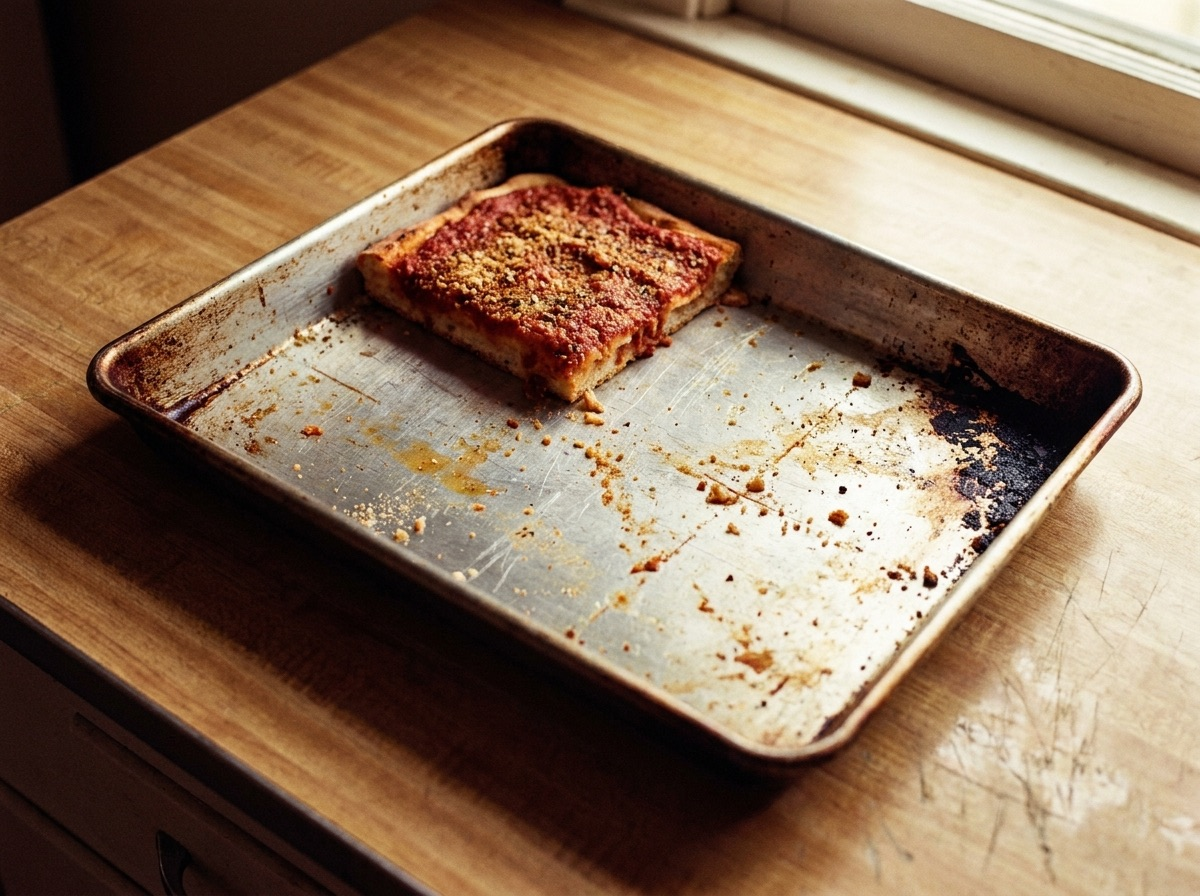
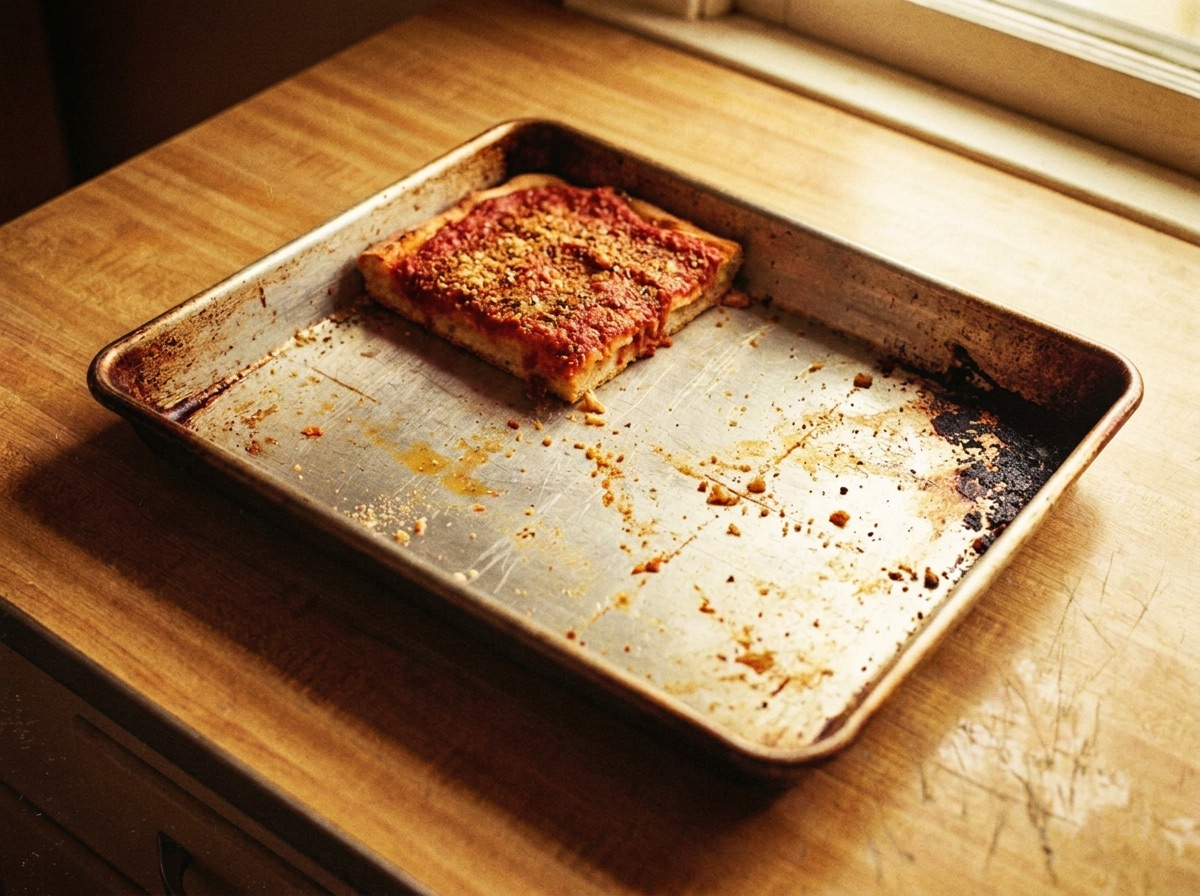
The photos age fifty years, and the recipes take the front of the zine
Reshot all three slots as 1970s Instamatic-style prints: heavy grain,
faded warm cast, soft focus, corner vignettes, a light leak on the
sauce pot. The sauce shot came back with a baked-in print border
(cropped off by pixel-measuring the cream margin, now 1058x754); the
sfincione went through image-to-image against the first shot so the
story survived the restyle — same one square left, same crumbs, same
burnt corner, just fifty years older. 10 credits this pass, 16 total.

The index flips: NONNA'S RECIPES now sits above DEV NOTES, and the
cover pitch reads in the same order.

Verified live: wing order top-to-bottom measured, sauce image loads at
its new natural size, page height unchanged, no horizontal overflow.

diff --git a/public/blog/index.html b/public/blog/index.html
@@ -29,9 +29,72 @@
 
   <div class="cover">
     <h1 class="cover__title">THE ZINE</h1>
-    <p class="cover__pitch">Two wings. Ten traps we walked into building an arcade card game &mdash; and the recipe cards the regulars kept in the drawer under the register.</p>
+    <p class="cover__pitch">Two wings. The recipe cards the regulars kept in the drawer under the register &mdash; and ten traps we walked into building an arcade card game.</p>
     <p class="cover__meta">Taped to the parlour counter. Free. Take one.</p>
   </div>
+
+  <section class="wing wing--recipes" aria-labelledby="wing-recipes">
+    <div class="wing__head">
+      <h2 class="wing__title" id="wing-recipes">NONNA&rsquo;S RECIPES</h2>
+      <p class="wing__note">Three cards, three stories, 1970s.</p>
+    </div>
+
+  <ul class="cards">
+
+    <li>
+      <a class="card" href="nonna-sunday-sauce.html">
+        <span class="card__no">Card 01 &middot; Nonna Pina</span>
+        <svg class="card__teaser" viewBox="0 0 200 56" role="img" aria-label="A two-handled pot half full of sauce, with three bubbles rising above it.">
+          <title>A pot of sauce with three bubbles over it</title>
+          <rect x="0" y="0" width="200" height="56" fill="#080a12"/>
+          <g fill="#ff4d9d"><rect x="84" y="10" width="5" height="5"/><rect x="98" y="4" width="5" height="5"/><rect x="112" y="12" width="5" height="5"/></g>
+          <g fill="#2a3355"><rect x="60" y="30" width="6" height="10"/><rect x="134" y="30" width="6" height="10"/><rect x="66" y="22" width="68" height="5"/></g>
+          <rect x="72" y="27" width="56" height="24" fill="none" stroke="#2a3355" stroke-width="3"/>
+          <rect x="76" y="31" width="48" height="8" fill="#ff2e6b"/>
+        </svg>
+        <h2 class="card__title">Sunday sauce</h2>
+        <p class="card__hook">On at seven, down at four, and nobody touches the knob.</p>
+      </a>
+    </li>
+
+    <li>
+      <a class="card" href="paulie-friday-dough.html">
+        <span class="card__no">Card 02 &middot; Big Paulie</span>
+        <svg class="card__teaser" viewBox="0 0 200 56" role="img" aria-label="A flat lump of dough in a bowl on the left, an arrow, and the same dough risen tall on the right above its dashed original outline.">
+          <title>Flat dough, then risen dough over its own dashed outline</title>
+          <rect x="0" y="0" width="200" height="56" fill="#080a12"/>
+          <g fill="#2a3355"><rect x="10" y="44" width="70" height="6"/><rect x="120" y="44" width="70" height="6"/></g>
+          <rect x="26" y="36" width="38" height="8" fill="#ffe14d"/>
+          <path d="M88 40 L112 40 M104 36 L112 40 L104 44" stroke="#3ddc7f" stroke-width="3" fill="none"/>
+          <rect x="136" y="36" width="38" height="8" fill="none" stroke="#2a3355" stroke-width="2" stroke-dasharray="4 3"/>
+          <rect x="136" y="18" width="38" height="26" fill="#ffe14d"/>
+        </svg>
+        <h2 class="card__title">The Friday dough</h2>
+        <p class="card__hook">Everything good on a Friday was made on a Thursday.</p>
+      </a>
+    </li>
+
+    <li>
+      <a class="card" href="vito-sfincione.html">
+        <span class="card__no">Card 03 &middot; Vito</span>
+        <svg class="card__teaser" viewBox="0 0 200 56" role="img" aria-label="A baking tray cut into nine squares. Eight are faded away and the ninth, in the bottom corner, is still there.">
+          <title>Nine squares on a tray, eight gone and one left</title>
+          <rect x="0" y="0" width="200" height="56" fill="#080a12"/>
+          <rect x="58" y="4" width="84" height="48" fill="none" stroke="#2a3355" stroke-width="3"/>
+          <g fill="#ff2e6b" opacity=".22">
+            <rect x="62" y="8" width="22" height="12"/><rect x="89" y="8" width="22" height="12"/><rect x="116" y="8" width="22" height="12"/>
+            <rect x="62" y="22" width="22" height="12"/><rect x="89" y="22" width="22" height="12"/><rect x="116" y="22" width="22" height="12"/>
+            <rect x="62" y="36" width="22" height="12"/><rect x="89" y="36" width="22" height="12"/>
+          </g>
+          <rect x="116" y="36" width="22" height="12" fill="#ff2e6b" stroke="#ffe14d" stroke-width="2"/>
+        </svg>
+        <h2 class="card__title">Sfincione, nine squares</h2>
+        <p class="card__hook">He cuts nine and he sells eight. The ninth is behind the register.</p>
+      </a>
+    </li>
+
+  </ul>
+  </section>
 
   <section class="wing" aria-labelledby="wing-notes">
     <div class="wing__head">
@@ -196,69 +259,6 @@
         </svg>
         <h2 class="card__title">The last one in the line</h2>
         <p class="card__hook">Everybody slid to their new seat. The last chef teleported.</p>
-      </a>
-    </li>
-
-  </ul>
-  </section>
-
-  <section class="wing wing--recipes" aria-labelledby="wing-recipes">
-    <div class="wing__head">
-      <h2 class="wing__title" id="wing-recipes">NONNA&rsquo;S RECIPES</h2>
-      <p class="wing__note">Three cards, three stories, 1970s.</p>
-    </div>
-
-  <ul class="cards">
-
-    <li>
-      <a class="card" href="nonna-sunday-sauce.html">
-        <span class="card__no">Card 01 &middot; Nonna Pina</span>
-        <svg class="card__teaser" viewBox="0 0 200 56" role="img" aria-label="A two-handled pot half full of sauce, with three bubbles rising above it.">
-          <title>A pot of sauce with three bubbles over it</title>
-          <rect x="0" y="0" width="200" height="56" fill="#080a12"/>
-          <g fill="#ff4d9d"><rect x="84" y="10" width="5" height="5"/><rect x="98" y="4" width="5" height="5"/><rect x="112" y="12" width="5" height="5"/></g>
-          <g fill="#2a3355"><rect x="60" y="30" width="6" height="10"/><rect x="134" y="30" width="6" height="10"/><rect x="66" y="22" width="68" height="5"/></g>
-          <rect x="72" y="27" width="56" height="24" fill="none" stroke="#2a3355" stroke-width="3"/>
-          <rect x="76" y="31" width="48" height="8" fill="#ff2e6b"/>
-        </svg>
-        <h2 class="card__title">Sunday sauce</h2>
-        <p class="card__hook">On at seven, down at four, and nobody touches the knob.</p>
-      </a>
-    </li>
-
-    <li>
-      <a class="card" href="paulie-friday-dough.html">
-        <span class="card__no">Card 02 &middot; Big Paulie</span>
-        <svg class="card__teaser" viewBox="0 0 200 56" role="img" aria-label="A flat lump of dough in a bowl on the left, an arrow, and the same dough risen tall on the right above its dashed original outline.">
-          <title>Flat dough, then risen dough over its own dashed outline</title>
-          <rect x="0" y="0" width="200" height="56" fill="#080a12"/>
-          <g fill="#2a3355"><rect x="10" y="44" width="70" height="6"/><rect x="120" y="44" width="70" height="6"/></g>
-          <rect x="26" y="36" width="38" height="8" fill="#ffe14d"/>
-          <path d="M88 40 L112 40 M104 36 L112 40 L104 44" stroke="#3ddc7f" stroke-width="3" fill="none"/>
-          <rect x="136" y="36" width="38" height="8" fill="none" stroke="#2a3355" stroke-width="2" stroke-dasharray="4 3"/>
-          <rect x="136" y="18" width="38" height="26" fill="#ffe14d"/>
-        </svg>
-        <h2 class="card__title">The Friday dough</h2>
-        <p class="card__hook">Everything good on a Friday was made on a Thursday.</p>
-      </a>
-    </li>
-
-    <li>
-      <a class="card" href="vito-sfincione.html">
-        <span class="card__no">Card 03 &middot; Vito</span>
-        <svg class="card__teaser" viewBox="0 0 200 56" role="img" aria-label="A baking tray cut into nine squares. Eight are faded away and the ninth, in the bottom corner, is still there.">
-          <title>Nine squares on a tray, eight gone and one left</title>
-          <rect x="0" y="0" width="200" height="56" fill="#080a12"/>
-          <rect x="58" y="4" width="84" height="48" fill="none" stroke="#2a3355" stroke-width="3"/>
-          <g fill="#ff2e6b" opacity=".22">
-            <rect x="62" y="8" width="22" height="12"/><rect x="89" y="8" width="22" height="12"/><rect x="116" y="8" width="22" height="12"/>
-            <rect x="62" y="22" width="22" height="12"/><rect x="89" y="22" width="22" height="12"/><rect x="116" y="22" width="22" height="12"/>
-            <rect x="62" y="36" width="22" height="12"/><rect x="89" y="36" width="22" height="12"/>
-          </g>
-          <rect x="116" y="36" width="22" height="12" fill="#ff2e6b" stroke="#ffe14d" stroke-width="2"/>
-        </svg>
-        <h2 class="card__title">Sfincione, nine squares</h2>
-        <p class="card__hook">He cuts nine and he sells eight. The ninth is behind the register.</p>
       </a>
     </li>
 

diff --git a/public/blog/nonna-sunday-sauce.html b/public/blog/nonna-sunday-sauce.html
@@ -78,7 +78,7 @@
 
   <figure class="art-slot">
     <div class="art-slot__frame">
-      <img src="../assets/recipe-sunday-sauce.jpg" alt="The sauce pot steaming on the old gas stove, wooden spoon across the rim, the back door light coming in." loading="lazy" width="1200" height="896">
+      <img src="../assets/recipe-sunday-sauce.jpg" alt="The sauce pot steaming on the old gas stove, wooden spoon across the rim, the back door light coming in." loading="lazy" width="1058" height="754">
     </div>
     <figcaption class="art-slot__cap">The pot at hour three, from the step by the back door.</figcaption>
   </figure>
